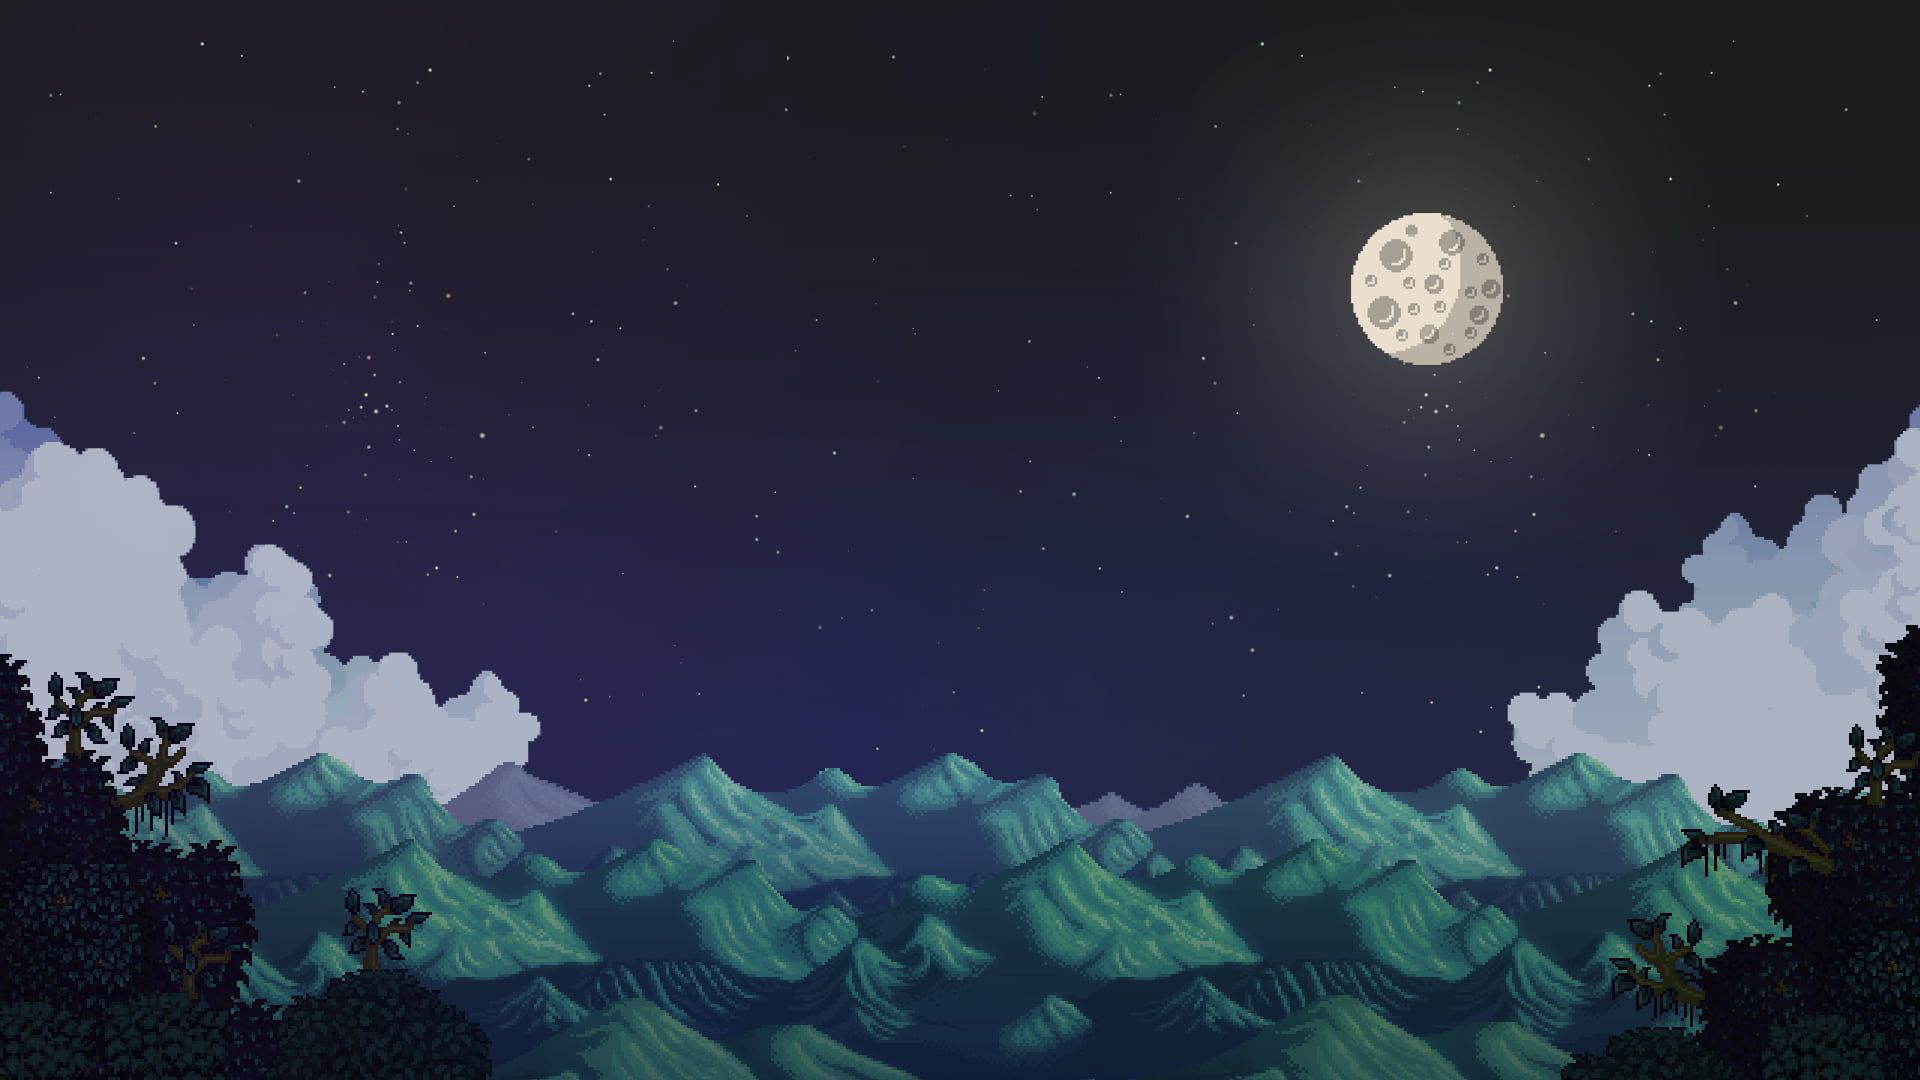
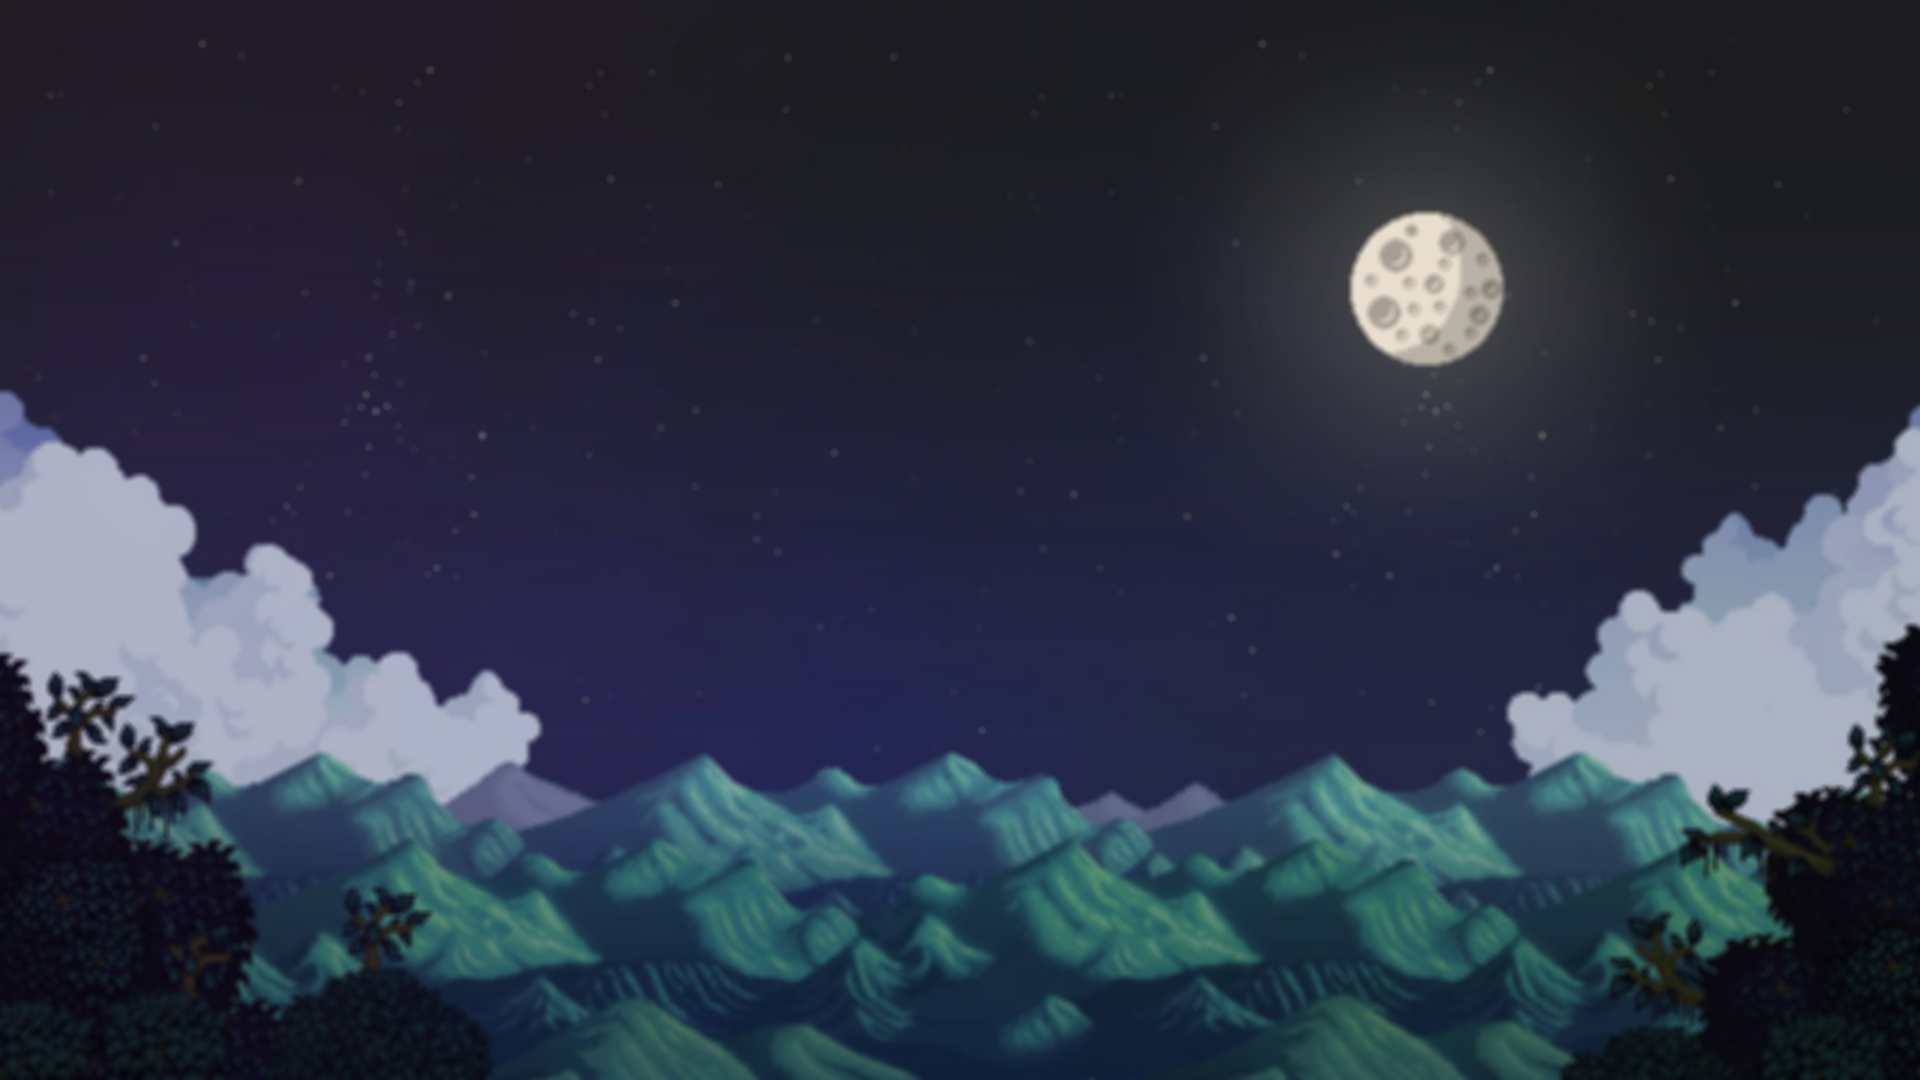
level class

diff --git a/Meta 3/javascript/main.js b/Meta 3/javascript/main.js
@@ -377,6 +377,7 @@ function canvasClickHandler(ev, elements,imagens,canvas, sounds){
 function chooseLevel(x,y,imagens,sons,nivel,canvas){
     var background=imagens.background;
     var personagem=imagens.afonso1;
+    var levelSound=sons.levelSound2;
     var path="../resources/mapa1.json";
 
     canvas.style.cursor="default";
@@ -433,7 +434,7 @@ function chooseLevel(x,y,imagens,sons,nivel,canvas){
             break;
     }
 
-    var nivel=new Level(imagens,sons,1600,900,path,background,personagem);
+    var nivel=new Level(imagens,sons,1600,900,path,background,personagem,levelSound);
     nivel.loadLevel();
     var elementos=nivel.run();
     return elementos;
@@ -466,7 +467,7 @@ function canvasMouseMoveHandlder(ev,elementos,imagens,canvas) {
 function loadingScreen() {
     var imagens={}; //onde vao ser guardadas todas as imagens do programa
 	var sounds = {};
-    var resourcesImg=["reiniciar","reiniciarHover","sair","sairHover","swordRight","swordLeft","144hz","144hzHover","60hz","60hzHover","esquerdaHover","direitaHover","saltarHover","atacarHover","esquerda","direita","saltar","atacar","end2","plataformaIce","lamp","groundRight","groundLeft","ground","heart","pause","shooterRight","shooterLeft","bullet","Help","HelpHover","volumeMax","volumeMedium","volumeMinium","volumeMute","end","grass","back","Logo","um","dois","tres","quatro","cinco","seis","umHover","doisHover","tresHover","quatroHover","cincoHover","seisHover","afonso","afonso1","background","box1","capitulo1","capitulo1Hover","capitulo2","capitulo2Hover","capitulo3","capitulo3Hover","Creditos","CreditosHover","IronBar","Jogar","JogarHover","Keybinding","KeybindingHover","minus","minusHover","modo_classico","modo_classicoHover","modo_infinito","modo_infinitoHover","Opcao","OpcaoHover","plataforma","plus","plusHover","Som","SomHover","Voltar","VoltarHover","box2"]
+    var resourcesImg=["reiniciar","reiniciarHover","sair","sairHover","swordRight","swordLeft","144hz","144hzHover","60hz","60hzHover","esquerdaHover","direitaHover","saltarHover","atacarHover","esquerda","direita","saltar","atacar","end2","plataformaIce","lamp","groundRight","groundLeft","ground","heart","pause","shooterRight","shooterLeft","bullet","Help","HelpHover","volumeMax","volumeMedium","volumeMinium","volumeMute","end","grass","back","Logo","um","dois","tres","quatro","cinco","seis","umHover","doisHover","tresHover","quatroHover","cincoHover","seisHover","afonso","afonso1","background","background1","background2","box1","capitulo1","capitulo1Hover","capitulo2","capitulo2Hover","capitulo3","capitulo3Hover","Creditos","CreditosHover","IronBar","Jogar","JogarHover","Keybinding","KeybindingHover","minus","minusHover","modo_classico","modo_classicoHover","modo_infinito","modo_infinitoHover","Opcao","OpcaoHover","plataforma","plus","plusHover","Som","SomHover","Voltar","VoltarHover","box2"]
 	var	resourcesSound = ["gun","sword1","sword2","levelSound2","levelSound1","levelButtonSound", "buttonSound"];
     var toLoad=resourcesImg.length + resourcesSound.length;
     var loaded=0;

diff --git a/Meta 3/javascript/level.js b/Meta 3/javascript/level.js
@@ -4,7 +4,7 @@
 
 class Level{
 
-  constructor(imagens,sounds,width,height,path,background,character){
+  constructor(imagens,sounds,width,height,path,background,character,levelSound){
     this.charX;
     this.charY;
 
@@ -22,6 +22,7 @@ class Level{
     this.path=path;
     this.background=background;
     this.character=character;
+    this.levelSound=levelSound;
   }
 
   
@@ -38,7 +39,7 @@ class Level{
 		var imagens=this.imagens;
     var sounds=this.sounds;
     var volumeInicial=sounds.levelSound2.volume;
-		var levelSound=sounds.levelSound2;
+		var levelSound=this.levelSound;
     var elementos=menuNiveis(canvas,[],this.imagens); //para apresentar quando o nivel acabar
 		var endPoint=this.endPoint;
 		var self=this;
@@ -85,7 +86,7 @@ class Level{
       else if(gamestate=="restart"){
         self.clearLevel(canvas,assets,assetsAnimated,shooters,bullets,bulletFiredHandler,keyUpLevelHandler,sounds,imagens,id,elementos,levelSound,volumeInicial);
 
-        var nivel=new Level(imagens,sounds,self.width,self.height,self.path,self.background,self.character);
+        var nivel=new Level(imagens,sounds,self.width,self.height,self.path,self.background,self.character,self.levelSound);
         nivel.loadLevel();
         nivel.run();
       }
@@ -98,14 +99,14 @@ class Level{
         //character movement
         char.move(char,timePassed,ctx);
         //rendering of everything
-        camera.updateAnim(imagens,char,assets,assetsAnimated,shooters,bullets,mapa,ctx);
+        camera.updateAnim(imagens,char,assets,assetsAnimated,shooters,bullets,mapa,ctx,self.background);
         camera.drawHUD(ctx,char,imagens);
         
         lastFrame=time;//for move function
         id=requestAnimationFrame(render);
       }
       else if(gamestate=="pause"){
-        camera.drawPauseMenu(imagens,char,assets,assetsAnimated,shooters,bullets,mapa,ctx,elementosNivel);
+        camera.drawPauseMenu(imagens,char,assets,assetsAnimated,shooters,bullets,mapa,ctx,elementosNivel,self.background);
         id=requestAnimationFrame(render);
       }
 			

diff --git a/Meta 3/javascript/camera.js b/Meta 3/javascript/camera.js
@@ -54,8 +54,8 @@ class Camera{
   }
 
   //chama o metodo draw da classe sprite
-  render(images,char,sprites,spritesAnimated,shooters,bullets,mapa, ctx){
-    
+  render(images,char,sprites,spritesAnimated,shooters,bullets,mapa, ctx,background){
+    ctx.drawImage(background,0,0);
     //the state saved will always be the default one, matrix starting at 0;0.
     ctx.save();
     //move the matrix to the area we want to show, the camara.
@@ -89,7 +89,7 @@ class Camera{
 
   //preciso de saber o tamanho do mapa completo, para poder calcular os movimentos da camara em relacao a este
   //considerei que a personagem vai estar na segunda posicao do array de sprites
-  updateAnim(images,char,sprites,spritesAnimated,shooters,bullets, mapa, ctx){
+  updateAnim(images,char,sprites,spritesAnimated,shooters,bullets, mapa, ctx,background){
 
     var cw = ctx.canvas.width;
     var ch = ctx.canvas.height;
@@ -126,7 +126,7 @@ class Camera{
 
 
     //chamar o render
-    this.render(images,char,sprites,spritesAnimated,shooters,bullets,mapa, ctx,);
+    this.render(images,char,sprites,spritesAnimated,shooters,bullets,mapa, ctx,background);
 
 
     
@@ -140,9 +140,9 @@ class Camera{
     }
   }
 
-  drawPauseMenu(images,char,sprites,spritesAnimated,shooters,bullets,mapa, ctx,elementos){
+  drawPauseMenu(images,char,sprites,spritesAnimated,shooters,bullets,mapa, ctx,elementos,background){
     ctx.clearRect(0,0,ctx.canvas.width, ctx.canvas.height);
-    this.render(images,char,sprites,spritesAnimated,shooters,bullets,mapa, ctx);
+    this.render(images,char,sprites,spritesAnimated,shooters,bullets,mapa, ctx,background);
 
     ctx.beginPath();  //darken whole scene
     ctx.fillStyle = "rgba(0,0,0,0.3";
